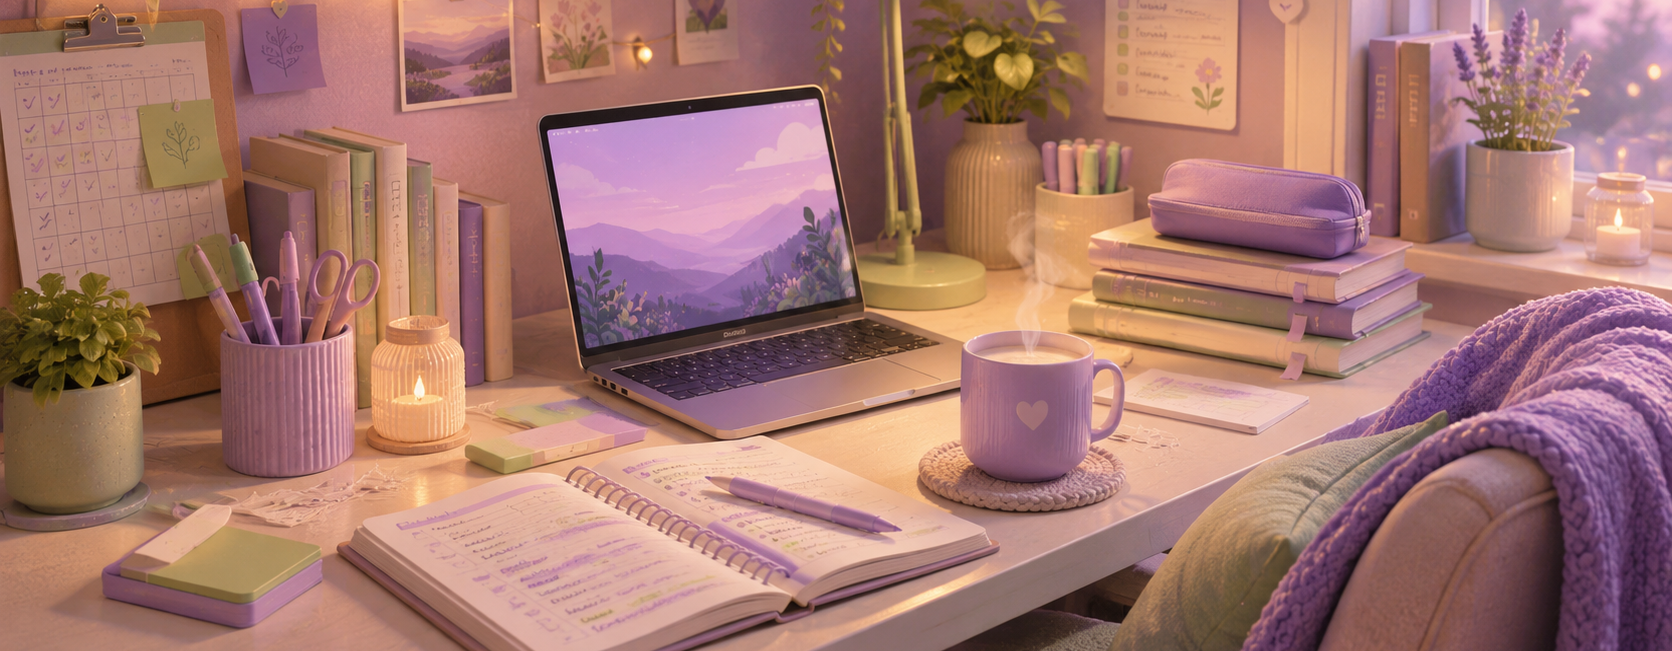
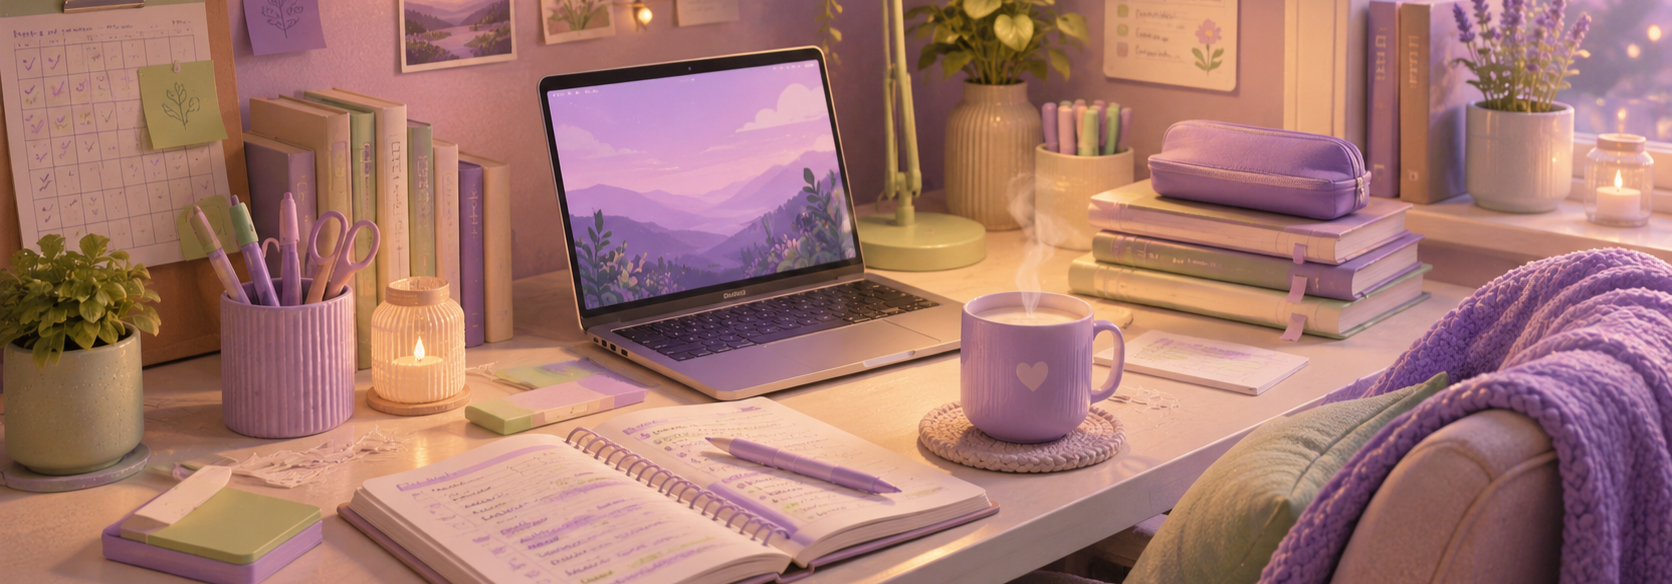
color e outras caralhadas de coisa

diff --git a/index.html b/index.html
@@ -48,7 +48,7 @@
 
         <div class="conteudo-principal">
             <span class="agenda">
-                <img src="agenda.png" width="500">
+                <img src="agenda.png" width="750">
             </span>
 
             <div class="metodos">
@@ -71,23 +71,23 @@
         </div>
     </main>
 
-    <footer>
-        <span class="contate-nos" style="width: 50%; flex-wrap: nowrap;">
-            <h3>Contate-nos</h3>
-            <p>Rua Taiobeiras, 169, Sevilha Ribeirão das Neves, MG | CEP: 33858-480</p>
-            <p>Telefone : (31) 3627-2303 ou 3627-2301</p>
-            <p>E-mail : gabinete.neves@ifmg.edu.br</p>
-        </span>
-        <div class="integrantes" style="width: 50%; float: inline-end;">
-            <h4>Integrantes</h4>
-            <p>Aline Botelho Ribeiro</p>
-            <p>Bryan Gabriel da Paz de Carvalho</p>
-            <p>João Victor Miranda Farias</p>
-            <p>Júlia Lara Machado Cirilo</p>
-            <p>Otávio Henrique dos Santos de Lima</p>
-            <p>Pedro Henrique Carvalho Veicir</p>
-            <p>Samanta Caroline de Carvalho Santos</p>
-        </div>
-    </footer>
-</body>
+        <footer>
+            <span class="contate-nos" style="width: 50%; flex-wrap: nowrap;">
+                <h3>Contate-nos</h3>
+                <p>Rua Taiobeiras, 169, Sevilha Ribeirão das Neves, MG | CEP: 33858-480</p>
+                <p>Telefone : (31) 3627-2303 ou 3627-2301</p>
+                <p>E-mail : gabinete.neves@ifmg.edu.br</p>
+            </span>
+            <div class="integrantes" style="width: 50%; float: inline-end;">
+                <h4>Integrantes</h4>
+                <p>Aline Botelho Ribeiro</p>
+                <p>Bryan Gabriel da Paz de Carvalho</p>
+                <p>João Victor Miranda Farias</p>
+                <p>Júlia Lara Machado Cirilo</p>
+                <p>Otávio Henrique dos Santos de Lima</p>
+                <p>Pedro Henrique Carvalho Veicir</p>
+                <p>Samanta Caroline de Carvalho Santos</p>
+            </div>
+        </footer>
+    </body>
 </html>

diff --git a/dicas.html b/dicas.html
@@ -4,16 +4,42 @@
     </head>
     <body>
         <header>
-            
-        </header>
-        <main>
-            <div class="dic">
-                <img src="dic.png" width="1800">
+            <div class="teto" style="width: 70%;">
+                <a href="TresTracos.html">
+                    <img src="tres_tracos.png" width="30" alt="Menu">
+                </a>
             </div>
+            <div class="barra" style="width: 15%; float: right;">
+                <a href="barraPesquisa.html">
+                    <img src="barrapesquisa.png" width="200" alt="Pesquisa">
+                </a>
+            </div>
+            <div class="user" style="width: 15%; float: inline-end;">
+                <a href="user.html">
+                    <img src="user.png" width="100" alt="Usuário">
+                </a>
+            </div>
+        </header>
 
-            <h3>POMODORO</h3>
-            
-        </main>
-    
+
+
+        <footer>
+            <span class="contate-nos" style="width: 50%; flex-wrap: nowrap;">
+                <h3>Contate-nos</h3>
+                <p>Rua Taiobeiras, 169, Sevilha Ribeirão das Neves, MG | CEP: 33858-480</p>
+                <p>Telefone : (31) 3627-2303 ou 3627-2301</p>
+                <p>E-mail : gabinete.neves@ifmg.edu.br</p>
+            </span>
+            <div class="integrantes" style="width: 50%; float: inline-end;">
+                <h4>Integrantes</h4>
+                <p>Aline Botelho Ribeiro</p>
+                <p>Bryan Gabriel da Paz de Carvalho</p>
+                <p>João Victor Miranda Farias</p>
+                <p>Júlia Lara Machado Cirilo</p>
+                <p>Otávio Henrique dos Santos de Lima</p>
+                <p>Pedro Henrique Carvalho Veicir</p>
+                <p>Samanta Caroline de Carvalho Santos</p>
+            </div>
+        </footer>
     </body>
 </html>

diff --git a/canais.html b/canais.html
@@ -1,8 +1,44 @@
 <html >
     <head>
         <title>IFocus | Canais Recomendados</title>
-    </head>
     <body>
-        
+        <header>
+            <div class="teto" style="width: 70%;">
+                <a href="TresTracos.html">
+                    <img src="tres_tracos.png" width="30" alt="Menu">
+                </a>
+            </div>
+            <div class="barra" style="width: 15%; float: right;">
+                <a href="barraPesquisa.html">
+                    <img src="barrapesquisa.png" width="200" alt="Pesquisa">
+                </a>
+            </div>
+            <div class="user" style="width: 15%; float: inline-end;">
+                <a href="user.html">
+                    <img src="user.png" width="100" alt="Usuário">
+                </a>
+            </div>
+        </header>
+
+
+
+        <footer>
+            <span class="contate-nos" style="width: 50%; flex-wrap: nowrap;">
+                <h3>Contate-nos</h3>
+                <p>Rua Taiobeiras, 169, Sevilha Ribeirão das Neves, MG | CEP: 33858-480</p>
+                <p>Telefone : (31) 3627-2303 ou 3627-2301</p>
+                <p>E-mail : gabinete.neves@ifmg.edu.br</p>
+            </span>
+            <div class="integrantes" style="width: 50%; float: inline-end;">
+                <h4>Integrantes</h4>
+                <p>Aline Botelho Ribeiro</p>
+                <p>Bryan Gabriel da Paz de Carvalho</p>
+                <p>João Victor Miranda Farias</p>
+                <p>Júlia Lara Machado Cirilo</p>
+                <p>Otávio Henrique dos Santos de Lima</p>
+                <p>Pedro Henrique Carvalho Veicir</p>
+                <p>Samanta Caroline de Carvalho Santos</p>
+            </div>
+        </footer>
     </body>
 </html>

diff --git a/sites.html b/sites.html
@@ -3,6 +3,43 @@
         <title>IFocus |  Sites Recomendados</title>
     </head>
     <body>
-        
+        <header>
+            <div class="teto" style="width: 70%;">
+                <a href="TresTracos.html">
+                    <img src="tres_tracos.png" width="30" alt="Menu">
+                </a>
+            </div>
+            <div class="barra" style="width: 15%; float: right;">
+                <a href="barraPesquisa.html">
+                    <img src="barrapesquisa.png" width="200" alt="Pesquisa">
+                </a>
+            </div>
+            <div class="user" style="width: 15%; float: inline-end;">
+                <a href="user.html">
+                    <img src="user.png" width="100" alt="Usuário">
+                </a>
+            </div>
+        </header>
+
+
+
+        <footer>
+            <span class="contate-nos" style="width: 50%; flex-wrap: nowrap;">
+                <h3>Contate-nos</h3>
+                <p>Rua Taiobeiras, 169, Sevilha Ribeirão das Neves, MG | CEP: 33858-480</p>
+                <p>Telefone : (31) 3627-2303 ou 3627-2301</p>
+                <p>E-mail : gabinete.neves@ifmg.edu.br</p>
+            </span>
+            <div class="integrantes" style="width: 50%; float: inline-end;">
+                <h4>Integrantes</h4>
+                <p>Aline Botelho Ribeiro</p>
+                <p>Bryan Gabriel da Paz de Carvalho</p>
+                <p>João Victor Miranda Farias</p>
+                <p>Júlia Lara Machado Cirilo</p>
+                <p>Otávio Henrique dos Santos de Lima</p>
+                <p>Pedro Henrique Carvalho Veicir</p>
+                <p>Samanta Caroline de Carvalho Santos</p>
+            </div>
+        </footer>
     </body>
 </html>

diff --git a/monitorias.html b/monitorias.html
@@ -3,6 +3,36 @@
         <title>IFocus | Monitorias</title>
     </head>
     <body>
-        
+        <header>
+            <div class="user" style="width: 15%; float: inline-end;">
+                <a href="user.html">
+                    <img src="user.png" width="100" alt="Usuário">
+                </a>
+            </div>
+        </header>
+            
+        <div class="topo"> 
+            <img src="banner6.png" width="1890"> 
+        </div>
+
+
+        <footer>
+            <span class="contate-nos" style="width: 50%; flex-wrap: nowrap;">
+                <h3>Contate-nos</h3>
+                <p>Rua Taiobeiras, 169, Sevilha Ribeirão das Neves, MG | CEP: 33858-480</p>
+                <p>Telefone : (31) 3627-2303 ou 3627-2301</p>
+                <p>E-mail : gabinete.neves@ifmg.edu.br</p>
+            </span>
+            <div class="integrantes" style="width: 50%; float: inline-end;">
+                <h4>Integrantes</h4>
+                <p>Aline Botelho Ribeiro</p>
+                <p>Bryan Gabriel da Paz de Carvalho</p>
+                <p>João Victor Miranda Farias</p>
+                <p>Júlia Lara Machado Cirilo</p>
+                <p>Otávio Henrique dos Santos de Lima</p>
+                <p>Pedro Henrique Carvalho Veicir</p>
+                <p>Samanta Caroline de Carvalho Santos</p>
+            </div>
+        </footer>
     </body>
 </html>

diff --git a/style.css b/style.css
@@ -12,11 +12,12 @@
 }
 
 body {
-    margin: 0;
-    padding: 0;
-    font-family: Arial, sans-serif;
-  }
-  
+  margin: 0;
+  padding: 0;
+  font-family: Arial, sans-serif;
+  background-color: #9df8bbee; 
+}
+
   .carrossel-container {
     position: relative;
     width: 100%;
@@ -66,7 +67,7 @@ body {
     width: 32px;
     height: 32px;
     background-color: rgba(0, 0, 0, 0.6);
-    color: #ffffff;
+    color: #ffffff81;
     text-decoration: none;
     font-size: 14px;
     font-weight: bold;
@@ -75,7 +76,7 @@ body {
   }
   
   .carrossel-nav a:hover {
-    background-color: #0070f3; 
+    background-color: #d300f3; 
     transform: scale(1.1);
   }
   
@@ -88,14 +89,6 @@ body {
     box-sizing: border-box;
   }
   
-  .agenda {
-    width: 60%;
-  }
-  
-  .agenda img {
-    width: 100%;
-    height: auto;
-  }
   
   .metodos {
     width: 35%;
@@ -113,7 +106,7 @@ body {
     display: flex;
     justify-content: space-between;
     padding: 20px;
-    background-color: #f4f4f4;
+    background-color: #5d9b6765;
     margin-top: 50px;
   }
   
